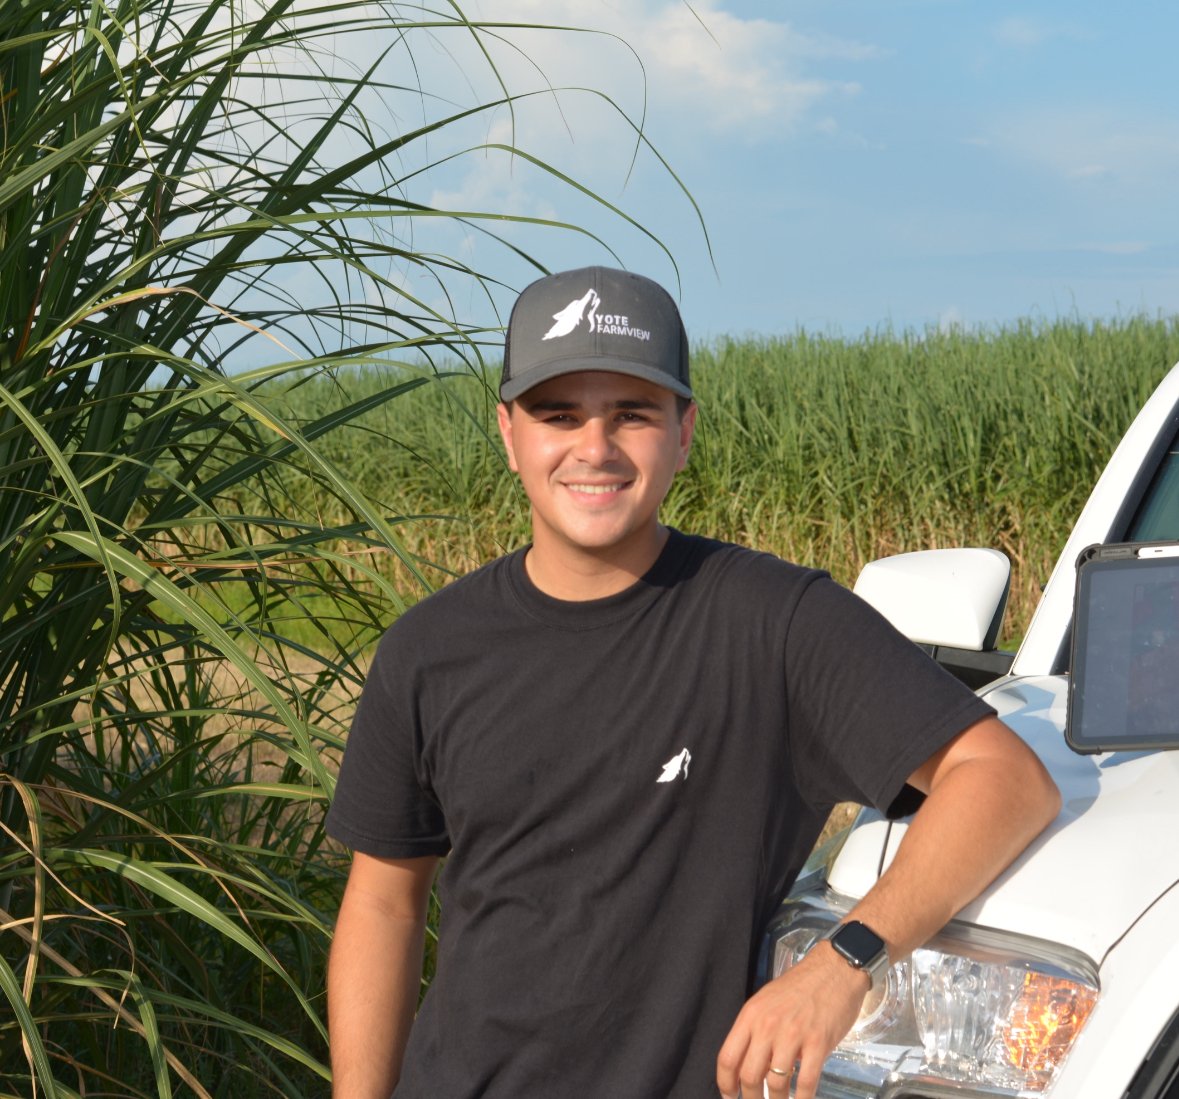
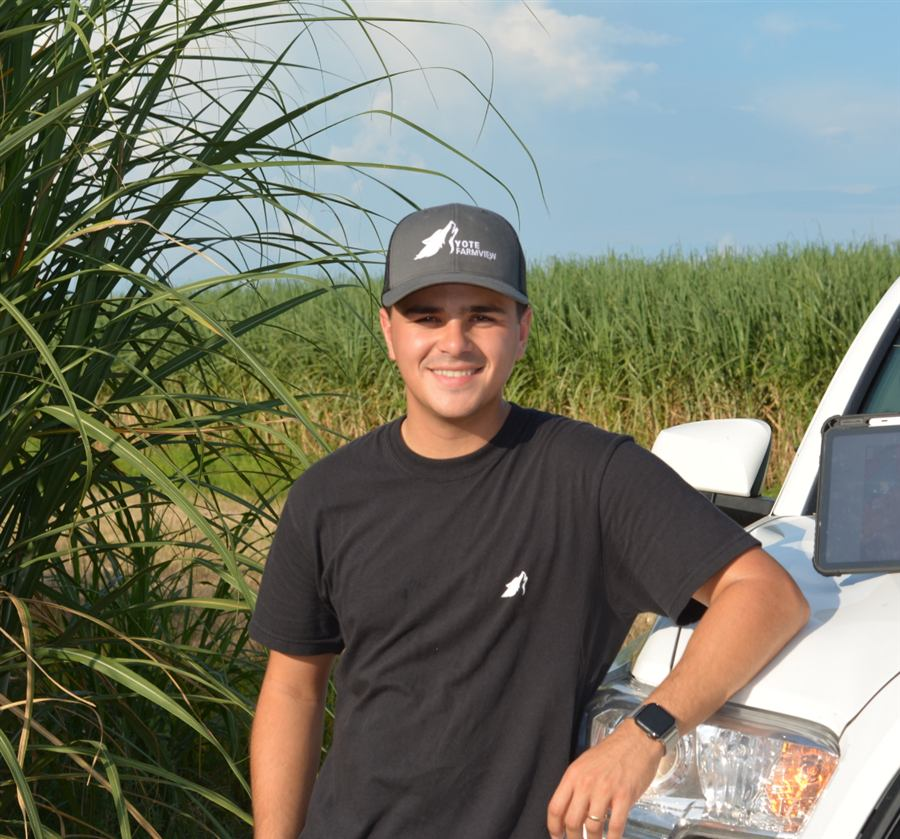
Performance: imagens otimizadas (20 MB para menos de 1 MB), preload do LCP, cache e compressao

Changed region(s): [[0.1244, 0.031, 0.1867, 0.062], [0.1244, 0.2169, 0.1556, 0.2479], [0.0311, 0.031, 0.0622, 0.062]]

diff --git a/index.html b/index.html
@@ -9,7 +9,8 @@
 <link rel="icon" href="public/favicon-dark.png" media="(prefers-color-scheme: dark)">
 <link rel="preconnect" href="https://fonts.googleapis.com">
 <link rel="preconnect" href="https://fonts.gstatic.com" crossorigin>
-<link href="https://fonts.googleapis.com/css2?family=Outfit:wght@500;600;700&family=Geist:wght@400;500;600&family=Geist+Mono:wght@400;500&display=swap" rel="stylesheet">
+<link href="https://fonts.googleapis.com/css2?family=Outfit:wght@600&family=Geist:wght@400;500;600&family=Geist+Mono:wght@400;500&display=swap" rel="stylesheet">
+<link rel="preload" as="image" href="public/screenshots/map.jpg" fetchpriority="high">
 <link rel="stylesheet" href="styles.css">
 <noscript><style>.reveal{opacity:1;transform:none;filter:none}</style></noscript>
 </head>
@@ -67,9 +68,9 @@
       <p class="roots reveal" style="--d:4">Raízes na Louisiana. Primeiro app de mapeamento só para cana nos EUA.</p>
     </div>
 
-    <div class="hero-stage reveal" style="--d:2">
+    <div class="hero-stage">
       <div class="phone tilt" data-tilt>
-        <div class="phone-core"><img src="public/screenshots/map.png" alt="Mapa da fazenda com talhões coloridos por soqueira" width="1206" height="2622" fetchpriority="high"></div>
+        <div class="phone-core"><img src="public/screenshots/map.jpg" alt="Mapa da fazenda com talhões coloridos por soqueira" width="1206" height="2622" fetchpriority="high"></div>
       </div>
       <div class="chip chip-a"><i class="dot"></i>Soqueira</div>
       <div class="chip chip-b"><i class="dot dot-b"></i>5,6 ha</div>
@@ -98,37 +99,37 @@
             <button type="button" data-view="map" class="on">Soqueira</button>
             <button type="button" data-view="ripener">Maturador</button>
           </div>
-          <div class="feature-phone" data-m="map"><div class="phone"><div class="phone-core"><img src="public/screenshots/map.png" alt="" loading="lazy" width="1206" height="2622"></div></div></div>
+          <div class="feature-phone" data-m="map"><div class="phone"><div class="phone-core"><img src="public/screenshots/map.jpg" alt="" loading="lazy" width="1206" height="2622"></div></div></div>
         </li>
         <li class="feature" data-img="split" data-alt="Talhão com duas variedades divididas">
           <h3>Variedades divididas</h3>
           <p class="feature-lead">Um talhão, duas variedades. Sem problema.</p>
           <p>Trace uma linha de divisão pelo número de linhas e identifique cada lado separadamente. Seu mapa continua preciso mesmo quando você planta mais de uma variedade no mesmo talhão.</p>
-          <div class="feature-phone" data-m="split"><div class="phone"><div class="phone-core"><img src="public/screenshots/split.png" alt="" loading="lazy" width="1206" height="2622"></div></div></div>
+          <div class="feature-phone" data-m="split"><div class="phone"><div class="phone-core"><img src="public/screenshots/split.jpg" alt="" loading="lazy" width="1206" height="2622"></div></div></div>
         </li>
         <li class="feature" data-img="list" data-alt="Lista de talhões pronta para exportar em PDF">
           <h3>Exportar e compartilhar</h3>
           <p class="feature-lead">Envie um mapa limpo em segundos.</p>
           <p>Gere um mapa profissional em PDF com a marca Yote e compartilhe com sua equipe, o dono da terra ou o agrônomo em um toque. Sem imprimir, sem escanear, sem explicar.</p>
-          <div class="feature-phone" data-m="list"><div class="phone"><div class="phone-core"><img src="public/screenshots/list.png" alt="" loading="lazy" width="1206" height="2622"></div></div></div>
+          <div class="feature-phone" data-m="list"><div class="phone"><div class="phone-core"><img src="public/screenshots/list.jpg" alt="" loading="lazy" width="1206" height="2622"></div></div></div>
         </li>
         <li class="feature" data-img="products" data-alt="Registro de aplicação com produto, dose e unidade">
           <h3>Registros de aplicação</h3>
           <p class="feature-lead">Registre cada aplicação direto do campo.</p>
           <p>Anote o produto aplicado, a dose e a unidade, tudo vinculado aos talhões exatos onde foi aplicado. Um histórico completo de cada aplicação, sempre no seu bolso.</p>
-          <div class="feature-phone" data-m="products"><div class="phone"><div class="phone-core"><img src="public/screenshots/products.png" alt="" loading="lazy" width="1206" height="2622"></div></div></div>
+          <div class="feature-phone" data-m="products"><div class="phone"><div class="phone-core"><img src="public/screenshots/products.jpg" alt="" loading="lazy" width="1206" height="2622"></div></div></div>
         </li>
       </ol>
 
       <div class="features-stage">
         <div class="phone tilt" data-tilt>
           <div class="phone-core">
-            <img class="shot on" data-key="map" src="public/screenshots/map.png" alt="" loading="lazy">
-            <img class="shot" data-key="stubble" src="public/screenshots/stubble.png" alt="" loading="lazy">
-            <img class="shot" data-key="ripener" src="public/screenshots/ripener.png" alt="" loading="lazy">
-            <img class="shot" data-key="split" src="public/screenshots/split.png" alt="" loading="lazy">
-            <img class="shot" data-key="list" src="public/screenshots/list.png" alt="" loading="lazy">
-            <img class="shot" data-key="products" src="public/screenshots/products.png" alt="" loading="lazy">
+            <img class="shot on" data-key="map" src="public/screenshots/map.jpg" alt="" loading="lazy">
+            <img class="shot" data-key="stubble" src="public/screenshots/stubble.jpg" alt="" loading="lazy">
+            <img class="shot" data-key="ripener" src="public/screenshots/ripener.jpg" alt="" loading="lazy">
+            <img class="shot" data-key="split" src="public/screenshots/split.jpg" alt="" loading="lazy">
+            <img class="shot" data-key="list" src="public/screenshots/list.jpg" alt="" loading="lazy">
+            <img class="shot" data-key="products" src="public/screenshots/products.jpg" alt="" loading="lazy">
           </div>
         </div>
       </div>

diff --git a/funcionalidades.html b/funcionalidades.html
@@ -9,7 +9,7 @@
 <link rel="icon" href="public/favicon-dark.png" media="(prefers-color-scheme: dark)">
 <link rel="preconnect" href="https://fonts.googleapis.com">
 <link rel="preconnect" href="https://fonts.gstatic.com" crossorigin>
-<link href="https://fonts.googleapis.com/css2?family=Outfit:wght@500;600;700&family=Geist:wght@400;500;600&family=Geist+Mono:wght@400;500&display=swap" rel="stylesheet">
+<link href="https://fonts.googleapis.com/css2?family=Outfit:wght@600&family=Geist:wght@400;500;600&family=Geist+Mono:wght@400;500&display=swap" rel="stylesheet">
 <link rel="stylesheet" href="styles.css">
 <noscript><style>.reveal{opacity:1;transform:none;filter:none}</style></noscript>
 </head>
@@ -52,7 +52,7 @@
         <p class="feature-lead reveal" style="--d:1">Veja a fazenda inteira do jeito que precisar.</p>
         <p class="reveal" style="--d:2">Alterne entre as visualizações de Corte, Variedade, Colheita e Maturador com um toque. Cada talhão ganha uma cor diferente, para você saber exatamente o que está onde, sem pegar em um pedaço de papel.</p>
       </div>
-      <div class="feat-phone reveal" style="--d:1"><div class="phone tilt" data-tilt><div class="phone-core"><img src="public/screenshots/map.png" alt="Mapa por cores dos talhões" loading="lazy" width="1206" height="2622"></div></div></div>
+      <div class="feat-phone reveal" style="--d:1"><div class="phone tilt" data-tilt><div class="phone-core"><img src="public/screenshots/map.jpg" alt="Mapa por cores dos talhões" loading="lazy" width="1206" height="2622"></div></div></div>
     </section>
     <section class="feat-row flip">
       <div class="feat-text">
@@ -60,7 +60,7 @@
         <p class="feature-lead reveal" style="--d:1">Um talhão, duas variedades. Sem problema.</p>
         <p class="reveal" style="--d:2">Trace uma linha de divisão pelo número de linhas e identifique cada lado separadamente. Seu mapa continua preciso mesmo quando você planta mais de uma variedade no mesmo talhão.</p>
       </div>
-      <div class="feat-phone reveal" style="--d:1"><div class="phone tilt" data-tilt><div class="phone-core"><img src="public/screenshots/split.png" alt="Talhão com duas variedades divididas" loading="lazy" width="1206" height="2622"></div></div></div>
+      <div class="feat-phone reveal" style="--d:1"><div class="phone tilt" data-tilt><div class="phone-core"><img src="public/screenshots/split.jpg" alt="Talhão com duas variedades divididas" loading="lazy" width="1206" height="2622"></div></div></div>
     </section>
     <section class="feat-row">
       <div class="feat-text">
@@ -68,7 +68,7 @@
         <p class="feature-lead reveal" style="--d:1">Mais uma forma de ver o mesmo mapa.</p>
         <p class="reveal" style="--d:2">Mude para a visualização de Maturador com um toque e veja todos os talhões da fazenda por esse critério, direto no mapa.</p>
       </div>
-      <div class="feat-phone reveal" style="--d:1"><div class="phone tilt" data-tilt><div class="phone-core"><img src="public/screenshots/ripener.png" alt="Mapa na visualização de maturador" loading="lazy" width="1206" height="2622"></div></div></div>
+      <div class="feat-phone reveal" style="--d:1"><div class="phone tilt" data-tilt><div class="phone-core"><img src="public/screenshots/ripener.jpg" alt="Mapa na visualização de maturador" loading="lazy" width="1206" height="2622"></div></div></div>
     </section>
     <section class="feat-row flip">
       <div class="feat-text">
@@ -76,7 +76,7 @@
         <p class="feature-lead reveal" style="--d:1">Envie um mapa limpo em segundos.</p>
         <p class="reveal" style="--d:2">Gere um mapa profissional em PDF com a marca Yote e compartilhe com sua equipe, o dono da terra ou o agrônomo em um toque. Sem imprimir, sem escanear, sem explicar.</p>
       </div>
-      <div class="feat-phone reveal" style="--d:1"><div class="phone tilt" data-tilt><div class="phone-core"><img src="public/screenshots/list.png" alt="Lista de talhões pronta para exportar em PDF" loading="lazy" width="1206" height="2622"></div></div></div>
+      <div class="feat-phone reveal" style="--d:1"><div class="phone tilt" data-tilt><div class="phone-core"><img src="public/screenshots/list.jpg" alt="Lista de talhões pronta para exportar em PDF" loading="lazy" width="1206" height="2622"></div></div></div>
     </section>
     <section class="feat-row">
       <div class="feat-text">
@@ -84,7 +84,7 @@
         <p class="feature-lead reveal" style="--d:1">Registre cada aplicação direto do campo.</p>
         <p class="reveal" style="--d:2">Anote o produto aplicado, a dose e a unidade, tudo vinculado aos talhões exatos onde foi aplicado. Um histórico completo de cada aplicação, sempre no seu bolso.</p>
       </div>
-      <div class="feat-phone reveal" style="--d:1"><div class="phone tilt" data-tilt><div class="phone-core"><img src="public/screenshots/products.png" alt="Registro de aplicação com produto, dose e unidade" loading="lazy" width="1206" height="2622"></div></div></div>
+      <div class="feat-phone reveal" style="--d:1"><div class="phone tilt" data-tilt><div class="phone-core"><img src="public/screenshots/products.jpg" alt="Registro de aplicação com produto, dose e unidade" loading="lazy" width="1206" height="2622"></div></div></div>
     </section>
   </div>
 

diff --git a/demo.html b/demo.html
@@ -9,7 +9,7 @@
 <link rel="icon" href="public/favicon-dark.png" media="(prefers-color-scheme: dark)">
 <link rel="preconnect" href="https://fonts.googleapis.com">
 <link rel="preconnect" href="https://fonts.gstatic.com" crossorigin>
-<link href="https://fonts.googleapis.com/css2?family=Outfit:wght@500;600;700&family=Geist:wght@400;500;600&family=Geist+Mono:wght@400;500&display=swap" rel="stylesheet">
+<link href="https://fonts.googleapis.com/css2?family=Outfit:wght@600&family=Geist:wght@400;500;600&family=Geist+Mono:wght@400;500&display=swap" rel="stylesheet">
 <link rel="stylesheet" href="styles.css">
 <noscript><style>.reveal{opacity:1;transform:none;filter:none}</style></noscript>
 </head>

diff --git a/sobre.html b/sobre.html
@@ -9,7 +9,7 @@
 <link rel="icon" href="public/favicon-dark.png" media="(prefers-color-scheme: dark)">
 <link rel="preconnect" href="https://fonts.googleapis.com">
 <link rel="preconnect" href="https://fonts.gstatic.com" crossorigin>
-<link href="https://fonts.googleapis.com/css2?family=Outfit:wght@500;600;700&family=Geist:wght@400;500;600&family=Geist+Mono:wght@400;500&display=swap" rel="stylesheet">
+<link href="https://fonts.googleapis.com/css2?family=Outfit:wght@600&family=Geist:wght@400;500;600&family=Geist+Mono:wght@400;500&display=swap" rel="stylesheet">
 <link rel="stylesheet" href="styles.css">
 <noscript><style>.reveal{opacity:1;transform:none;filter:none}</style></noscript>
 </head>

diff --git a/styles.css b/styles.css
@@ -454,3 +454,7 @@ body.menu-open{overflow:hidden}
   .about-split .story-copy{column-count:1}
   .about-split .story-copy .story-end{font-size:1.5rem}
 }
+
+/* hero stage fades in by CSS so the LCP image never waits on JS */
+.hero-stage{animation:stage-in .7s var(--ease) .1s both}
+@keyframes stage-in{from{opacity:0;transform:translateY(16px)}}
